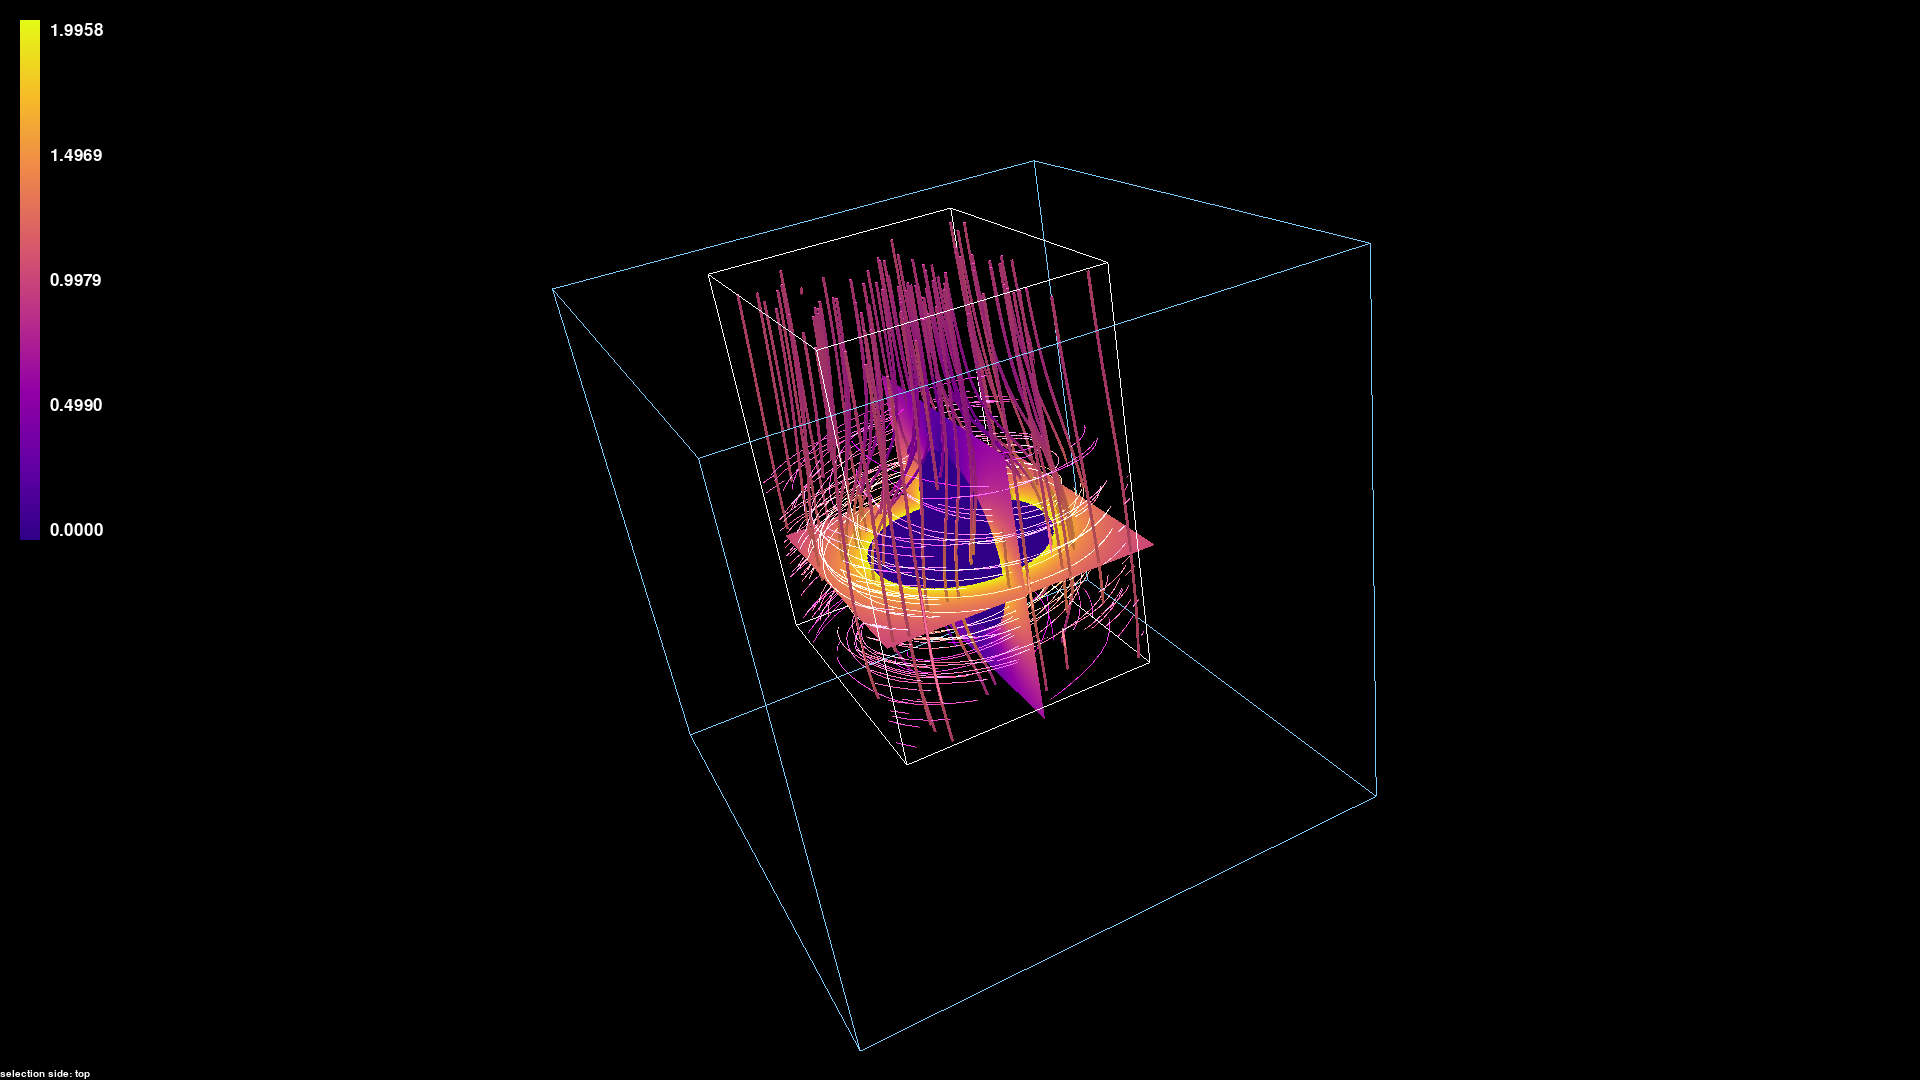
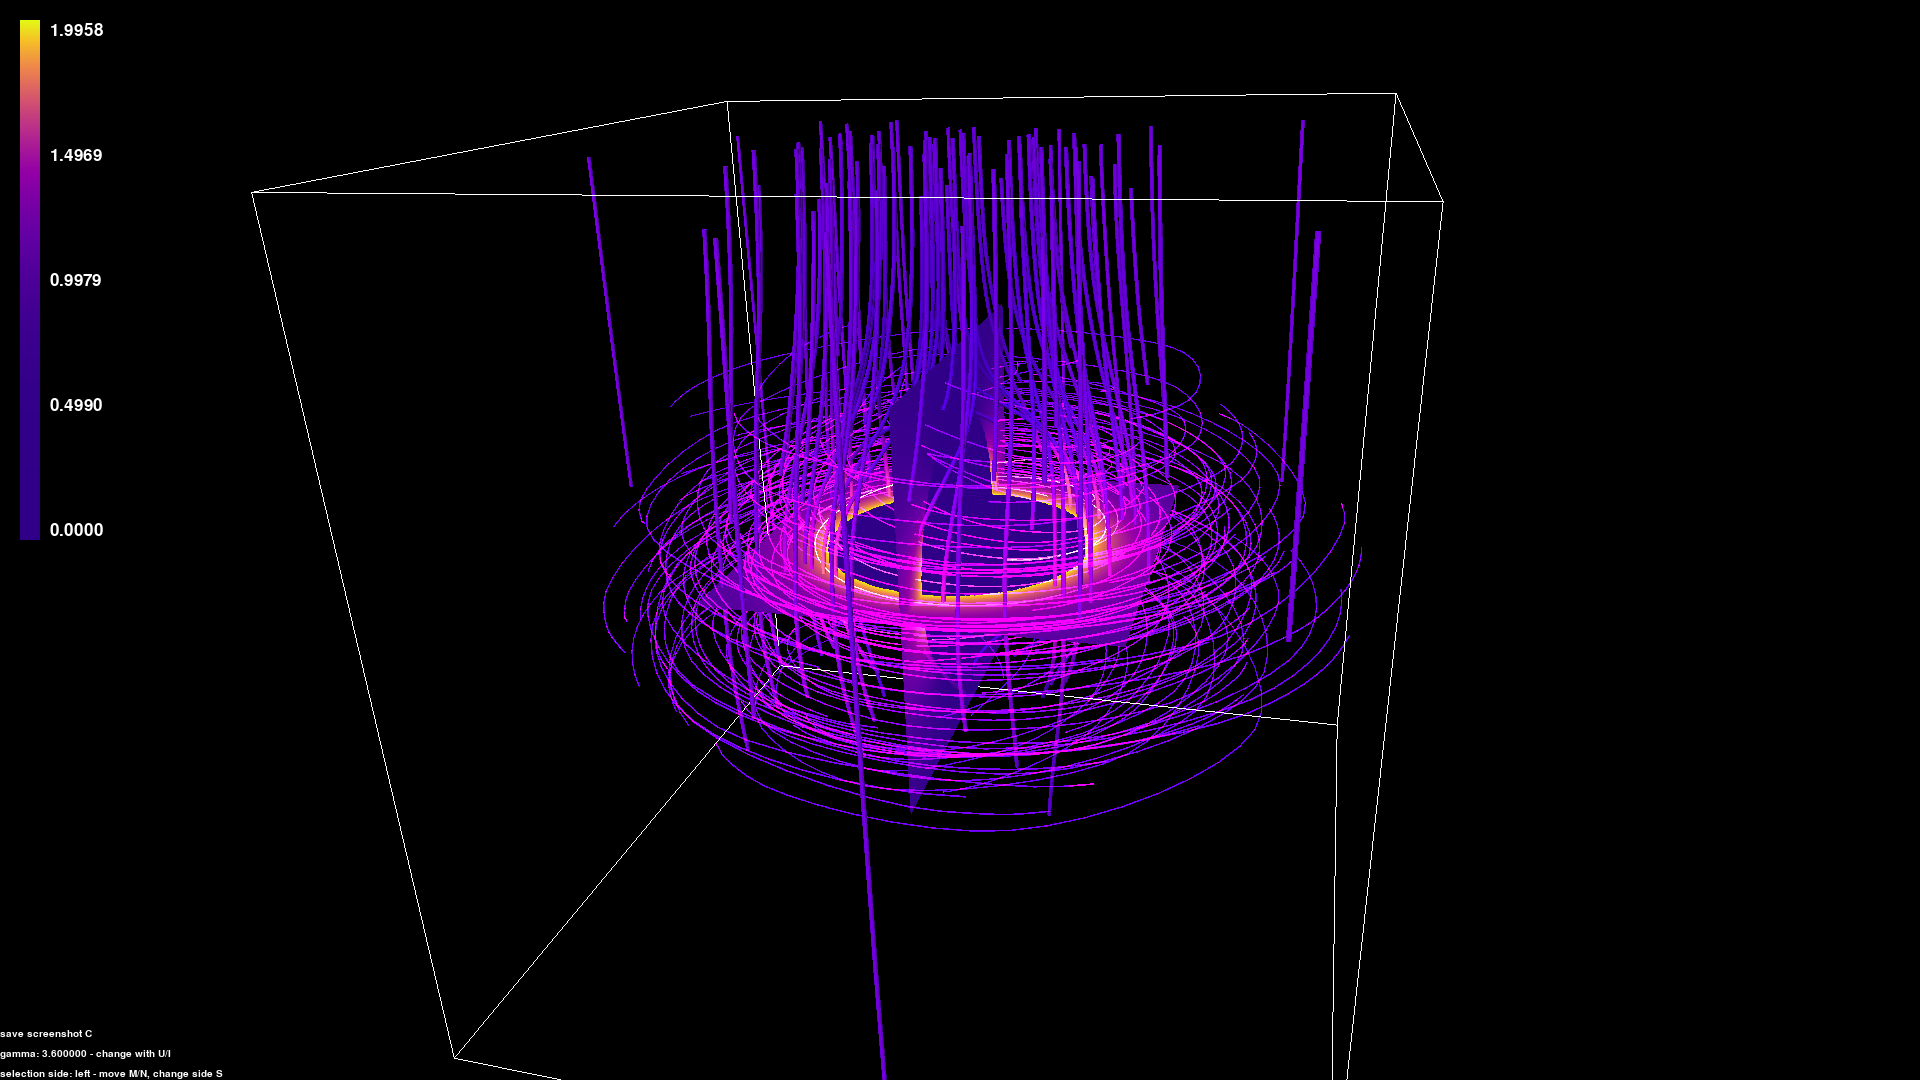
Gamma correction

diff --git a/numflow/application.py b/numflow/application.py
@@ -53,7 +53,7 @@ class Application:
         #init so it does not fall
         self.camera = None
 
-        self.contex = Context(self)
+        self.context = Context(self)
         self.camera = Camera(500, 500)
         self.boxes = []
         self.layers = []
@@ -68,10 +68,13 @@ class Application:
             "max": 0,
             #thresholds for filtering based on magnitude
             "min_threshold": 0,
-            "max_threshold": float(np.inf)
+            "max_threshold": float(np.inf),
+            #colorma manip
+            "gamma": 1.0,
+            "gamma_incr": 0.05
         }
         
-        self.colormap = Colormap(self.contex.colormapProgram, self.settings)
+        self.colormap = Colormap(self.context.colormapProgram, self.settings)
 
 
     #------------------------------------------------------------------------------------------------
@@ -94,7 +97,7 @@ class Application:
         print(f"    high       {self.dataset.high}")
 
         #add main bounding box to the visualization
-        box = Box(self.contex.boxProgram, self.dataset.low, self.dataset.high)
+        box = Box(self.context.boxProgram, self.dataset.low, self.dataset.high)
         boxCenter = 0.5 * (self.dataset.low + self.dataset.high)
         self.camera.set_center(boxCenter)
         self.boxes.append(box)
@@ -102,8 +105,8 @@ class Application:
         # create selection box
         lows = self.dataset.low
         highs = self.dataset.high
-        # self.selection = Box(self.contex.boxProgram, [lows[0]+2, lows[1]+2, lows[2]+2], [highs[0]-2, highs[1]-2, highs[2]-2])
-        self.selection = Box(self.contex.boxProgram, lows, highs)
+        # self.selection = Box(self.context.boxProgram, [lows[0]+2, lows[1]+2, lows[2]+2], [highs[0]-2, highs[1]-2, highs[2]-2])
+        self.selection = Box(self.context.boxProgram, lows, highs)
         self.selection.color = np.array([1, 1, 1], dtype=np.float32)
         self.settings["selection"] = self.selection
 
@@ -117,7 +120,7 @@ class Application:
 
         values = self.dataset(seed_points)
         self.updateStats(values)
-        glyphs = Glyphs(self.contex.glyphProgram, seed_points, values, size, transparency)
+        glyphs = Glyphs(self.context.glyphProgram, seed_points, values, size, transparency)
         self.glyphs.append(glyphs)
 
 
@@ -137,7 +140,7 @@ class Application:
         values = self.dataset(grid_points)
         self.updateStats(values)
 
-        layer = Layer(self.contex.sliceProgram, grid_points, values, resolution, axis_id, slice_coord, transparency)
+        layer = Layer(self.context.sliceProgram, grid_points, values, resolution, axis_id, slice_coord, transparency)
         self.layers.append(layer)
 
 
@@ -151,15 +154,31 @@ class Application:
         abort = Event() #for compatibility...
         positions, values, lengths, times = cstreamlines(self.dataset, t0, t_bound, seed_points, abort)
         self.updateStats(values)
-        streamline = Streamline(self.contex.streamlineProgram, positions, values, lengths, times, size, transparency)
+        streamline = Streamline(self.context.streamlineProgram, positions, values, lengths, times, size, transparency)
         self.streamlines.append(streamline)
+
+
+    def gamma(self, value):
+        #TODO comments
+        self.settings["gamma"] = max(value, 0)
+        self.context.text.updateText("gamma: " + self.settings["gamma"] + " - change with U/I")
 
     #------------------------------------------------------------------------------------------------
 
     def run(self):
-        self.contex.runLoop()
-        #self.renderThread = Thread(target=self.contex.runLoop)
+        self.context.runLoop()
+        #self.renderThread = Thread(target=self.context.runLoop)
         #self.renderThread.start()
+
+
+    def gamma_up(self):
+        self.settings["gamma"] += self.settings["gamma_incr"]
+        self.context.textGamma.updateText(f"gamma: {self.settings['gamma']:2f} - change with U/I")
+
+
+    def gamma_down(self):
+        self.settings["gamma"] = max(self.settings["gamma"] - self.settings["gamma_incr"], 0)
+        self.context.textGamma.updateText(f"gamma: {self.settings['gamma']:2f} - change with U/I")
 
 
     def draw_transparent(self):

diff --git a/numflow/graphics/context.py b/numflow/graphics/context.py
@@ -42,7 +42,9 @@ class Context:
         self.resize(1920, 1080)
 
         self.boxsides = { 0:"left", 1:"bottom", 2:"back", 3:"right", 4:"top", 5:"front" }
-        self.text = Text("selection side: left")
+        self.text = Text("selection side: left - move M/N, change side S")
+        self.textGamma = Text("gamma 1.0 - change U/I")
+        self.textSave = Text("save screenshot C")
 
         #compiles programs, sets attributes, uniforms
         self.setupPrograms()
@@ -86,7 +88,10 @@ class Context:
             glDisable(GL_BLEND)
 
             self.app.draw_colorbar()
+
             self.text.renderText(0, 0, self.app.camera.width, self.app.camera.height)
+            self.textGamma.renderText(0, 20, self.app.camera.width, self.app.camera.height)
+            self.textSave.renderText(0, 40, self.app.camera.width, self.app.camera.height)
           
             glutSwapBuffers()
             self.doDrawing = False
@@ -95,7 +100,7 @@ class Context:
     def switchSides(self):
         # cycle selection box sides
         self.app.selection.changeSel()
-        self.text.updateText("selection side: " + self.boxsides[self.app.selection.sel])
+        self.text.updateText("selection side: " + self.boxsides[self.app.selection.sel] + " - move M/N, change side S")
         self.redraw()
         
 
@@ -142,6 +147,11 @@ class Context:
             self.app.camera.top()
         if key == b'c':
             self.saveScreen()
+
+        if key == b'u':
+            self.app.gamma_up()
+        if key == b'i':
+            self.app.gamma_down()
 
         if key == b's':
             self.switchSides()
@@ -190,6 +200,9 @@ class Context:
         self.glyphProgram.addUniform("projection")
         self.glyphProgram.addUniform("size")
         self.glyphProgram.addUniform("transparency")
+        self.glyphProgram.addUniform("selectedLow")
+        self.glyphProgram.addUniform("selectedHigh")
+        self.glyphProgram.addUniform("gamma")
 
         #slice program setup
         self.sliceProgram = Program(path("slice.vert"), path("slice.frag"))
@@ -202,6 +215,9 @@ class Context:
         self.sliceProgram.addUniform("view")
         self.sliceProgram.addUniform("projection")
         self.sliceProgram.addUniform("transparency")
+        self.sliceProgram.addUniform("selectedLow")
+        self.sliceProgram.addUniform("selectedHigh")
+        self.sliceProgram.addUniform("gamma")
 
         #streamline setup program
         self.streamlineProgram = Program(path("streamline.vert"), path("streamline.frag"))
@@ -229,6 +245,7 @@ class Context:
         self.streamlineProgram.addUniform("transparency")
         self.streamlineProgram.addUniform("selectedLow")
         self.streamlineProgram.addUniform("selectedHigh")
+        self.streamlineProgram.addUniform("gamma")
 
 
         #colormap setup program
@@ -237,6 +254,7 @@ class Context:
         self.colormapProgram.addAttribute("pos")
         self.colormapProgram.addUniform("screenwidth")
         self.colormapProgram.addUniform("screenheight")
+        self.colormapProgram.addUniform("gamma")
 
 
     def timer(self, value):

diff --git a/numflow/graphics/program.py b/numflow/graphics/program.py
@@ -85,6 +85,9 @@ class Program:
             self.uniformf("amin", settings["min"])
             self.uniformf("amax", settings["max"])
 
+        if "gamma" in self.uniforms:
+            self.uniformf("gamma", settings["gamma"])
+
         if "min_thresh" in self.uniforms:
             self.uniformf("min_thresh", settings["min_threshold"])
             self.uniformf("max_thresh", settings["max_threshold"])

diff --git a/numflow/graphics/box.py b/numflow/graphics/box.py
@@ -10,7 +10,7 @@ from .primitives import Primitive
 class Box(Primitive):
     def __init__(self, program, low, high):
         self.program = program
-        self.transparency = 1.0
+        self.transparency = 0.5
 
         self.low = np.array(low, dtype=np.float32) 
         self.min = np.array(low, dtype=np.float32)

diff --git a/numflow/graphics/colormap.py b/numflow/graphics/colormap.py
@@ -59,6 +59,7 @@ class Colormap:
         glBindVertexArray(self.vao)
         self.program.uniformf("screenwidth", screenwidth)
         self.program.uniformf("screenheight", screenheight)
+        self.program.uniformf("gamma", settings["gamma"])
         
         glDrawArrays(GL_TRIANGLES, 0, 6)
 

diff --git a/numflow/graphics/text.py b/numflow/graphics/text.py
@@ -14,7 +14,7 @@ class Text:
 
 
 	def updateText(self, mytext):
-		glDeleteTextures(1, self.texture)
+		glDeleteTextures(1, GLuint(self.texture))
 		self.createTexture(mytext)
 
 
